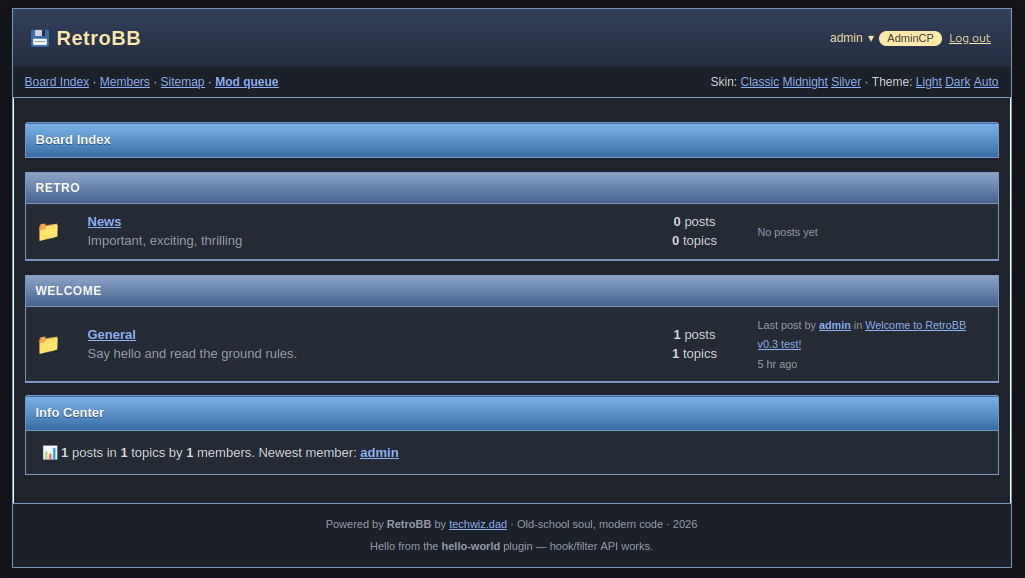
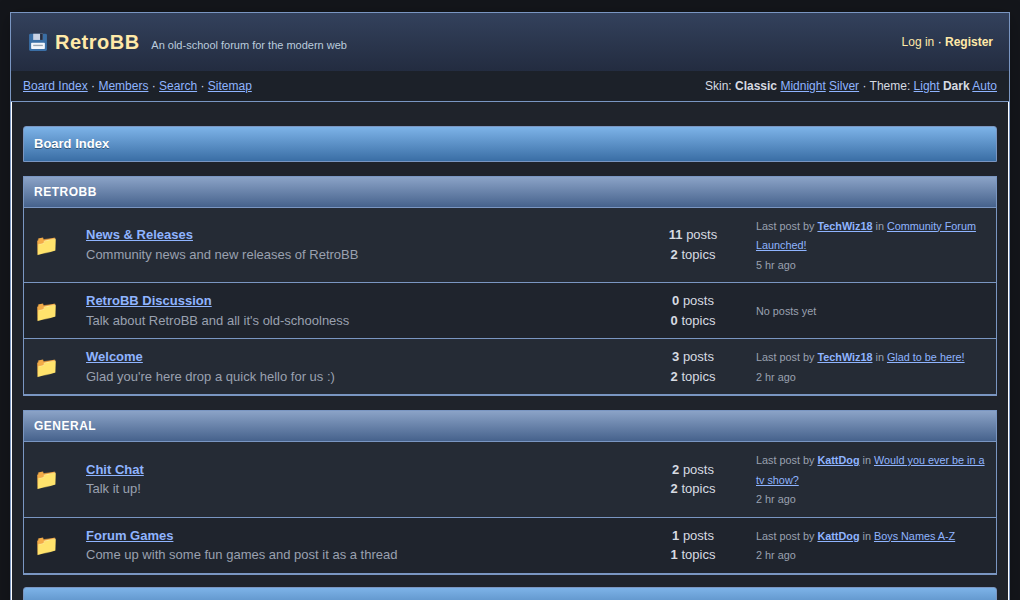
Showcase gallery: fresh screenshots of lived-in board, all 6 combos

Changed region(s): [[0.0, 0.0, 1.0, 1.0]]

diff --git a/scripts/forum-shots.py b/scripts/forum-shots.py
@@ -1,0 +1,44 @@
+# Captures all 6 RetroBB skin x theme combos of the live board index
+# into the hub gallery slots. Shoots via the techwiz.dad/forum subpath
+# (Path=/forum cookies only match there) with the hub-style custom header
+# hidden. Run: python3 scripts/forum-shots.py
+import os
+from playwright.sync_api import sync_playwright
+
+# Local DNS is stale for the apex; pin it to a Cloudflare edge IP.
+RESOLVER_RULE = 'MAP techwiz.dad 104.21.68.128'
+BASE = os.environ.get('FORUM_URL', 'https://techwiz.dad/forum').rstrip('/')
+OUT = 'public/screenshots'
+WIDTH, HEIGHT = 1020, 600
+HIDE_CSS = '.site-header{display:none!important}'
+
+combos = [
+    ('classic', 'light'),
+    ('classic', 'dark'),
+    ('midnight', 'light'),
+    ('midnight', 'dark'),
+    ('silver', 'light'),
+    ('silver', 'dark'),
+]
+
+with sync_playwright() as p:
+    browser = p.chromium.launch(args=[f'--host-resolver-rules={RESOLVER_RULE}'])
+    for skin, theme in combos:
+        # Fresh profile per combo + seed cookies directly: avoids the
+        # /skin/* + /theme/* route quirks AND the header sync script
+        # reverting server state from stale localStorage mid-sequence.
+        ctx = browser.new_context(viewport={'width': WIDTH, 'height': HEIGHT})
+        ctx.add_cookies([
+            {'name': 'retrobb_skin', 'value': skin, 'domain': 'techwiz.dad', 'path': '/forum'},
+            {'name': 'retrobb_theme', 'value': theme, 'domain': 'techwiz.dad', 'path': '/forum'},
+        ])
+        page = ctx.new_page()
+        page.goto(f'{BASE}/', wait_until='networkidle')
+        page.wait_for_timeout(500)
+        page.add_style_tag(content=HIDE_CSS)
+        page.wait_for_timeout(200)
+        dest = f'{OUT}/retrobb-{skin}-{theme}.png'
+        page.screenshot(path=dest)
+        print('saved', dest, '|', page.get_attribute('body', 'class'))
+        ctx.close()
+    browser.close()
